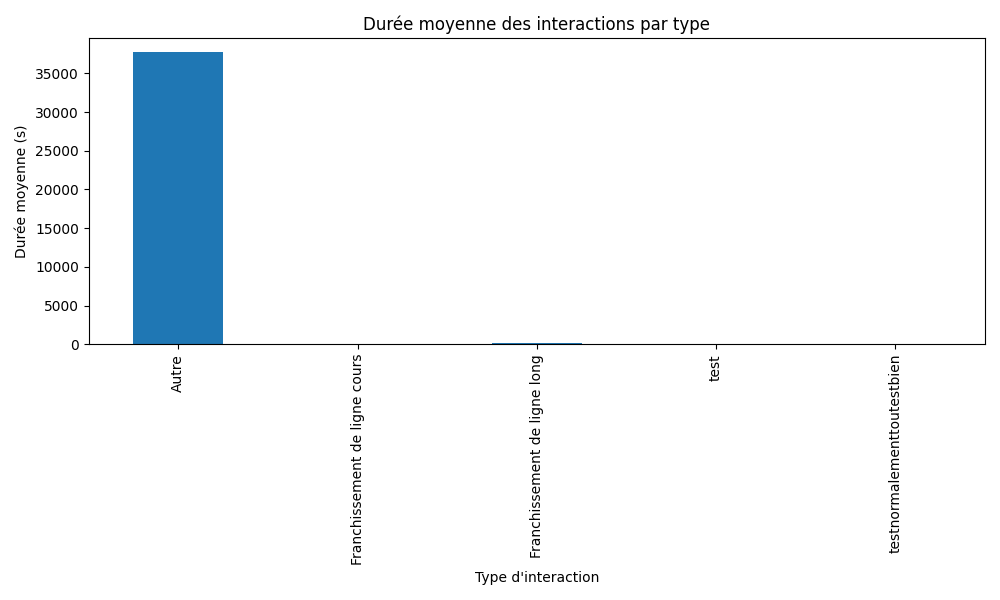
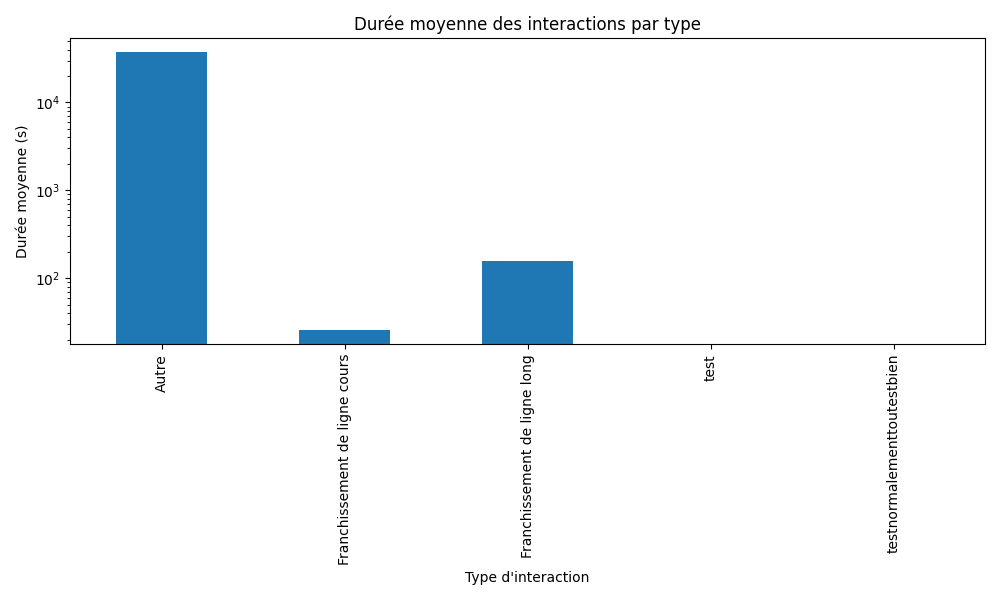
statistique bien avec log

diff --git a/templates/statistiques.html b/templates/statistiques.html
@@ -3,15 +3,33 @@
 <head>
     <meta charset="UTF-8">
     <meta name="viewport" content="width=device-width, initial-scale=1.0">
-    <title>Statistiques de Trafic</title>
-    <link rel="stylesheet" href="{{ url_for('static', filename='css/styles_stat.css') }}">
+    <title>Statistiques d'Interaction</title>
+    <link rel="stylesheet" href="https://stackpath.bootstrapcdn.com/bootstrap/4.5.2/css/bootstrap.min.css">
 </head>
 <body>
-    <h1>Statistiques de Trafic</h1>
-    <img src="{{ url_for('static', filename='user_interactions.png') }}" alt="User Interactions">
-    <img src="{{ url_for('static', filename='interaction_types.png') }}" alt="Interaction Types">
-    <img src="{{ url_for('static', filename='average_duration_by_interaction.png') }}" alt="Average Duration by Interaction">
-    <img src="{{ url_for('static', filename='interactions_by_zone.png') }}" alt="Interactions by Zone">
-    <img src="{{ url_for('static', filename='duration_histogram.png') }}" alt="Duration Histogram">
+    <div class="container">
+        <h1 class="my-4">Statistiques d'Interaction</h1>
+        <div class="row">
+            <div class="col-md-6">
+                <img src="{{ url_for('static', filename='user_interactions.png') }}" class="img-fluid" alt="Nombre d'interactions par utilisateur">
+            </div>
+            <div class="col-md-6">
+                <img src="{{ url_for('static', filename='interaction_types.png') }}" class="img-fluid" alt="Nombre d'interactions par type">
+            </div>
+        </div>
+        <div class="row">
+            <div class="col-md-6">
+                <img src="{{ url_for('static', filename='average_duration_by_interaction.png') }}" class="img-fluid" alt="Durée moyenne des interactions par type">
+            </div>
+            <div class="col-md-6">
+                <img src="{{ url_for('static', filename='interactions_by_zone.png') }}" class="img-fluid" alt="Nombre d'interactions par zone">
+            </div>
+        </div>
+        <div class="row">
+            <div class="col-md-12">
+                <img src="{{ url_for('static', filename='duration_histogram.png') }}" class="img-fluid" alt="Distribution de la durée des interactions">
+            </div>
+        </div>
+    </div>
 </body>
 </html>

diff --git a/app.py b/app.py
@@ -6,6 +6,9 @@ from flask_restful import Api, Resource
 import secrets
 import re
 import uuid
+import matplotlib
+matplotlib.use('Agg')
+
 import matplotlib.pyplot as plt
 import pandas as pd
 
@@ -950,6 +953,7 @@ def create_dataframe(data):
                 'valide': entry.get('valide', False)
             })
     return pd.DataFrame(records)
+
 def plot_statistics(df):
     # Nombre d'interactions par utilisateur
     plt.figure(figsize=(10, 6))
@@ -957,6 +961,7 @@ def plot_statistics(df):
     plt.title('Nombre d\'interactions par utilisateur')
     plt.xlabel('Utilisateur')
     plt.ylabel('Nombre d\'interactions')
+    plt.tight_layout()
     plt.savefig('static/user_interactions.png')
     plt.close()
 
@@ -966,33 +971,40 @@ def plot_statistics(df):
     plt.title('Nombre d\'interactions par type')
     plt.xlabel('Type d\'interaction')
     plt.ylabel('Nombre d\'interactions')
+    plt.tight_layout()
     plt.savefig('static/interaction_types.png')
     plt.close()
 
     # Durée moyenne des interactions par type
     plt.figure(figsize=(10, 6))
     df.groupby('interaction')['duration'].mean().plot(kind='bar')
+    plt.yscale('log')
     plt.title('Durée moyenne des interactions par type')
     plt.xlabel('Type d\'interaction')
     plt.ylabel('Durée moyenne (s)')
+    plt.tight_layout()
     plt.savefig('static/average_duration_by_interaction.png')
     plt.close()
 
     # Nombre d'interactions par zone
     plt.figure(figsize=(10, 6))
     df['zone'].value_counts().plot(kind='bar')
+    plt.yscale('log')
     plt.title('Nombre d\'interactions par zone')
     plt.xlabel('Zone')
     plt.ylabel('Nombre d\'interactions')
+    plt.tight_layout()
     plt.savefig('static/interactions_by_zone.png')
     plt.close()
 
     # Histogramme de la durée des interactions
     plt.figure(figsize=(10, 6))
     df['duration'].plot(kind='hist', bins=30)
+    plt.yscale('log')
     plt.title('Distribution de la durée des interactions')
     plt.xlabel('Durée (s)')
     plt.ylabel('Fréquence')
+    plt.tight_layout()
     plt.savefig('static/duration_histogram.png')
     plt.close()
 
